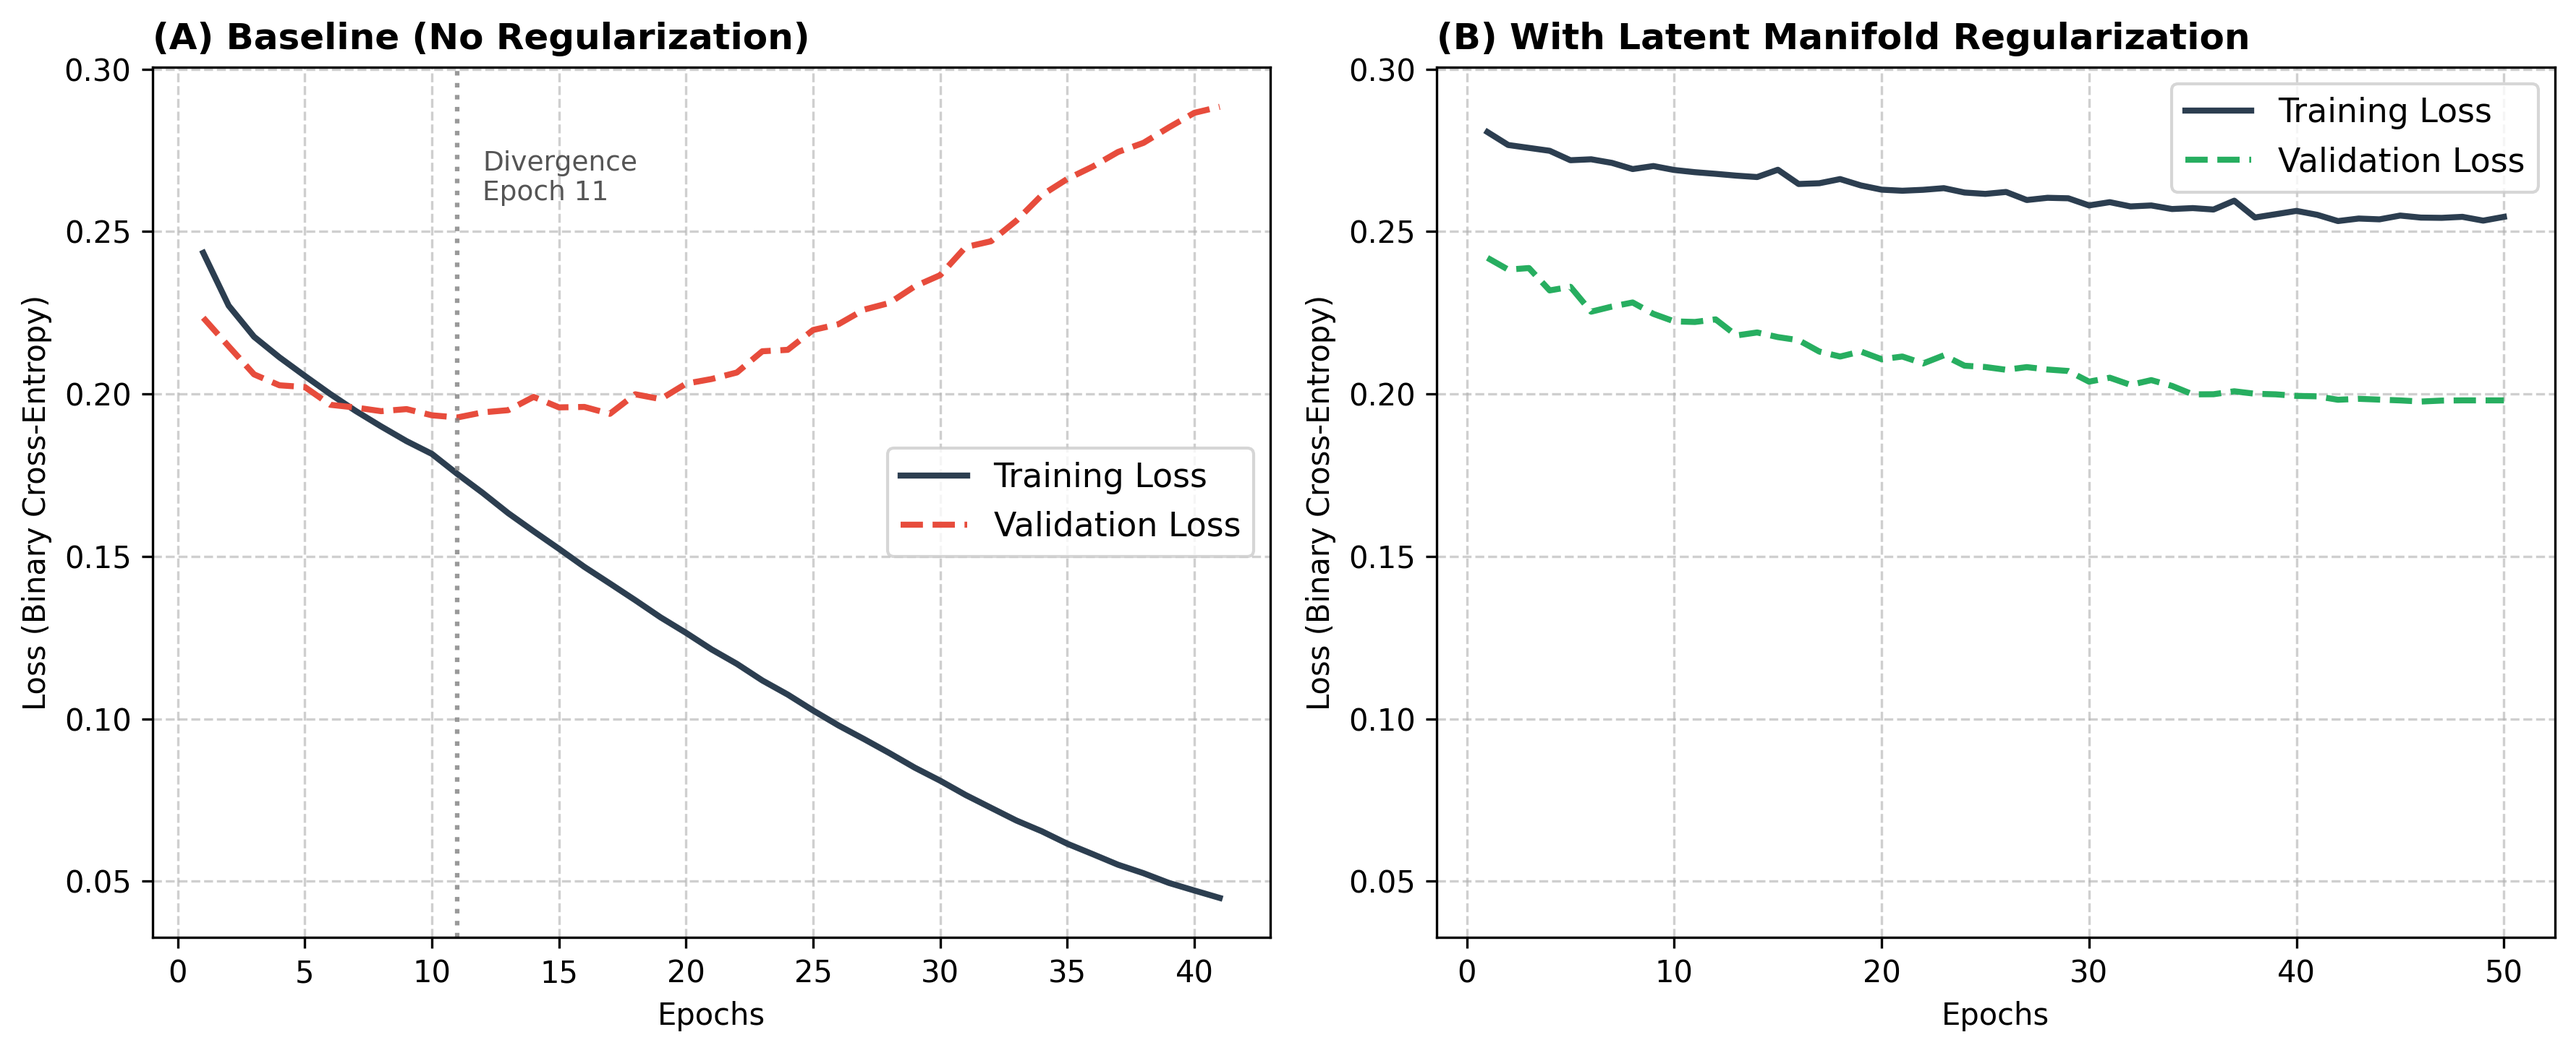
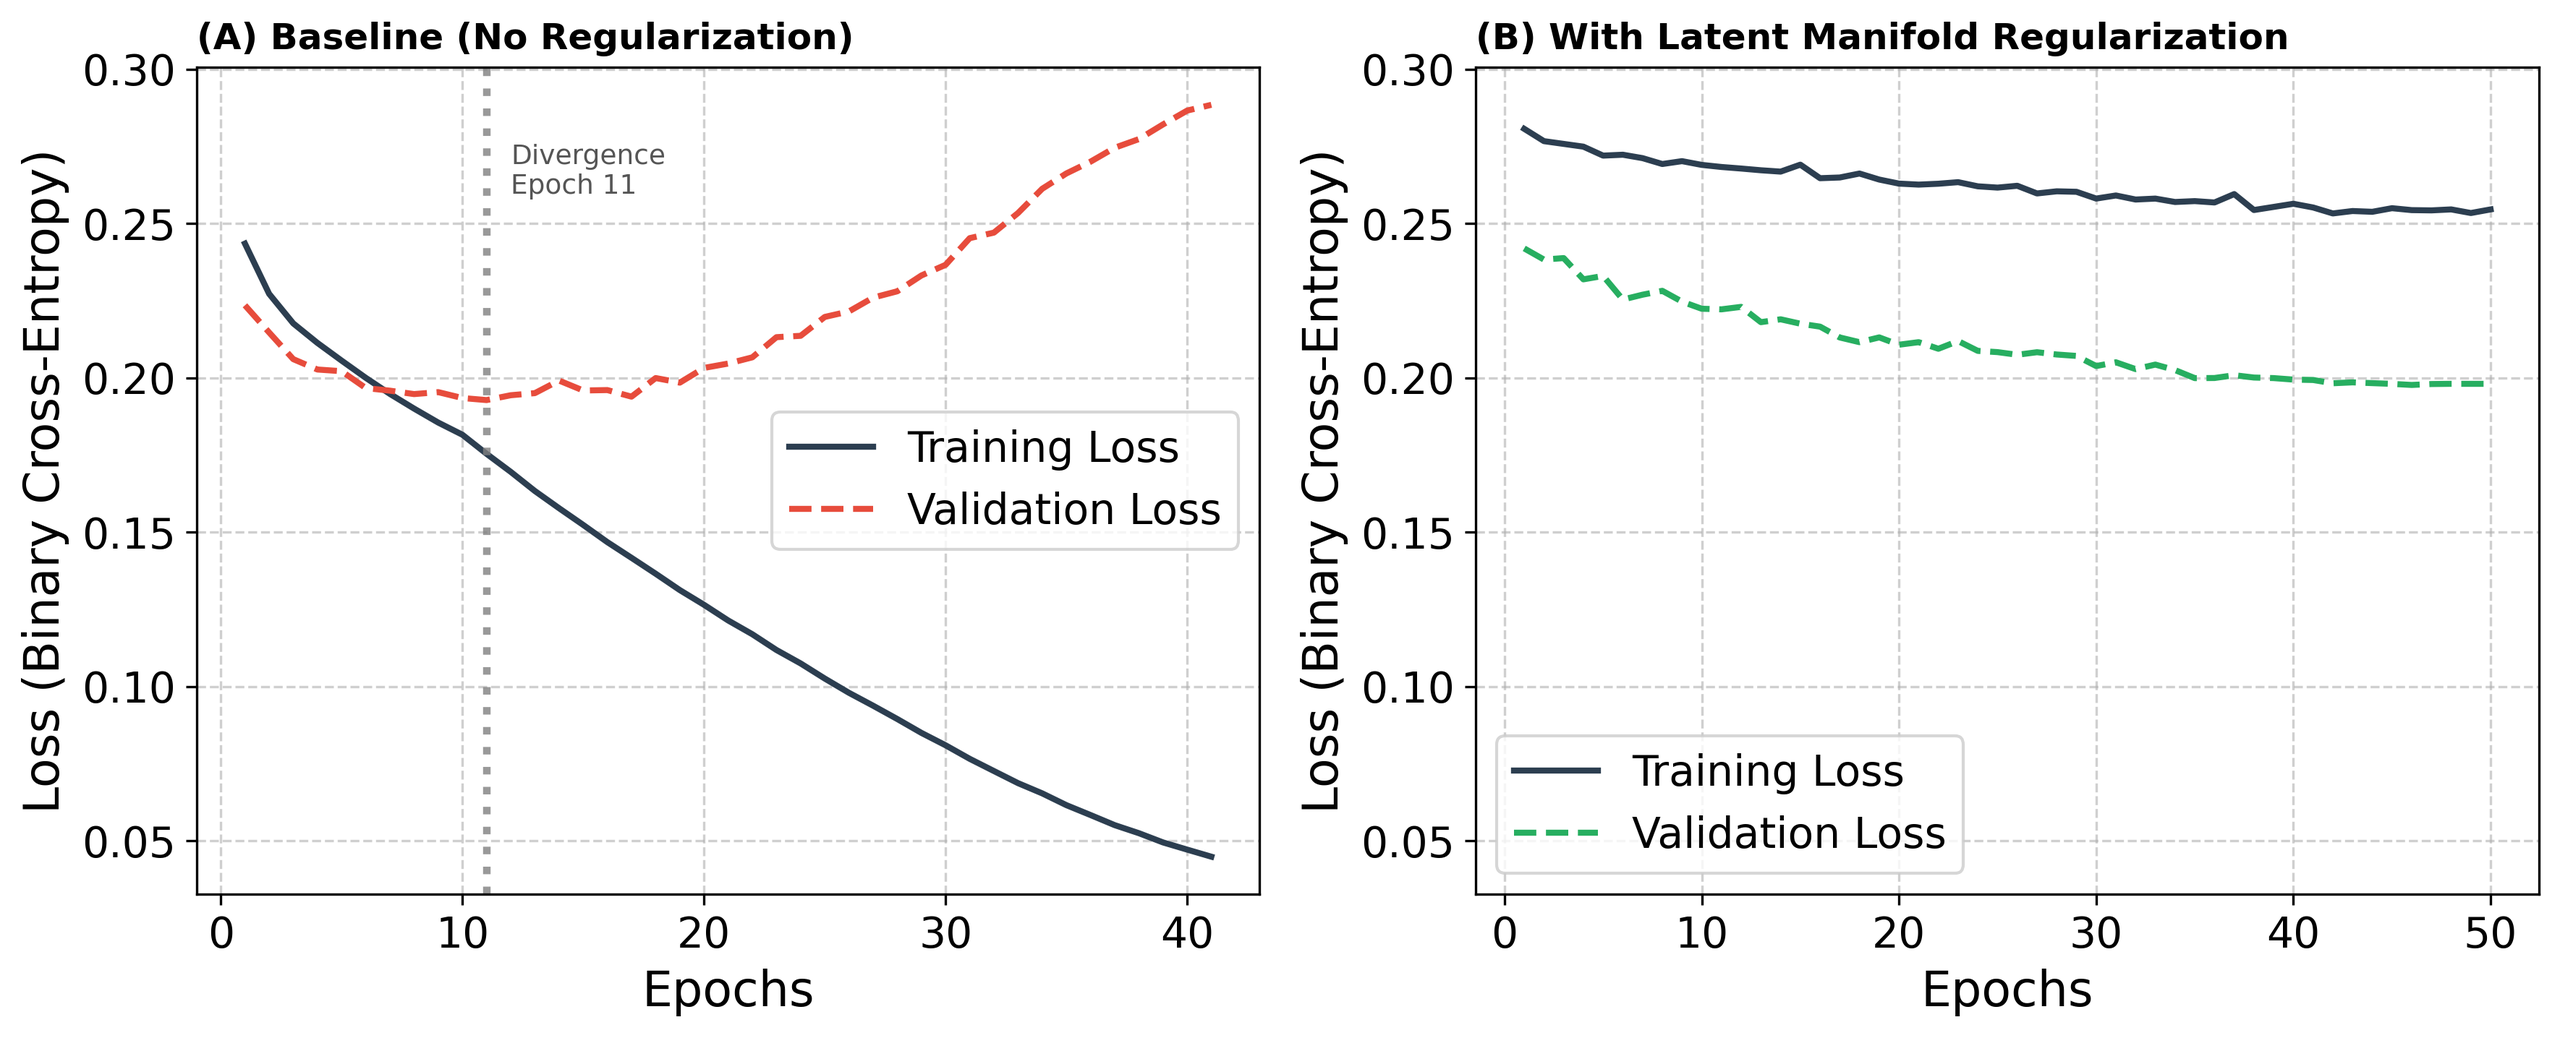
Enhance ablation figure generation: increase font sizes, set axis label sizes, and update file paths for consistency

diff --git a/paper_code/generate_ablation_figure.py b/paper_code/generate_ablation_figure.py
@@ -46,7 +46,13 @@ def generate_ablation_figure(baseline_path, regularized_path, output_dir):
     plt.rcParams.update({
         'font.family': 'sans-serif',
         'font.sans-serif': ['Arial', 'DejaVu Sans'],
-        'font.size': 11
+        'font.size': 14,             # Increased from 11
+        'axes.labelsize': 16,        # Explicitly set large axis labels
+        'axes.titlesize': 16,        # Explicitly set large titles
+        'xtick.labelsize': 14,       # Large tick labels
+        'ytick.labelsize': 14,
+        'legend.fontsize': 14,       # Large legend
+        'lines.linewidth': 2.5       # Thicker lines
     })
     
     # Plot A: Baseline
@@ -131,12 +137,18 @@ def generate_ablation_figure(baseline_path, regularized_path, output_dir):
 if __name__ == "__main__":
     # Paths
     # Assuming the script is run from the project root
-    # and temp_ablation_data is in the project root
+    # and temp_ablation_data is in the paper_code folder
     base_dir = os.path.dirname(os.path.dirname(os.path.abspath(__file__)))
-    baseline_path = os.path.join(base_dir, 'temp_ablation_data', 'baseline', 'results.json')
-    regularized_path = os.path.join(base_dir, 'temp_ablation_data', 'regularized', 'results.json')
+    baseline_path = os.path.join(base_dir, 'paper_code', 'temp_ablation_data', 'baseline', 'results.json')
+    regularized_path = os.path.join(base_dir, 'paper_code', 'temp_ablation_data', 'regularized', 'results.json')
     output_dir = os.path.join(base_dir, 'paper_code', 'figures')
-    
+
+    # Ensure baseline path exists
+    if not os.path.exists(baseline_path):
+        print(f"Error: Baseline file not found at {baseline_path}")
+        exit(1)
+        
+    generate_ablation_figure(baseline_path, regularized_path, output_dir)
     if not os.path.exists(baseline_path):
         print(f"Error: Baseline file not found at {baseline_path}")
         sys.exit(1)
